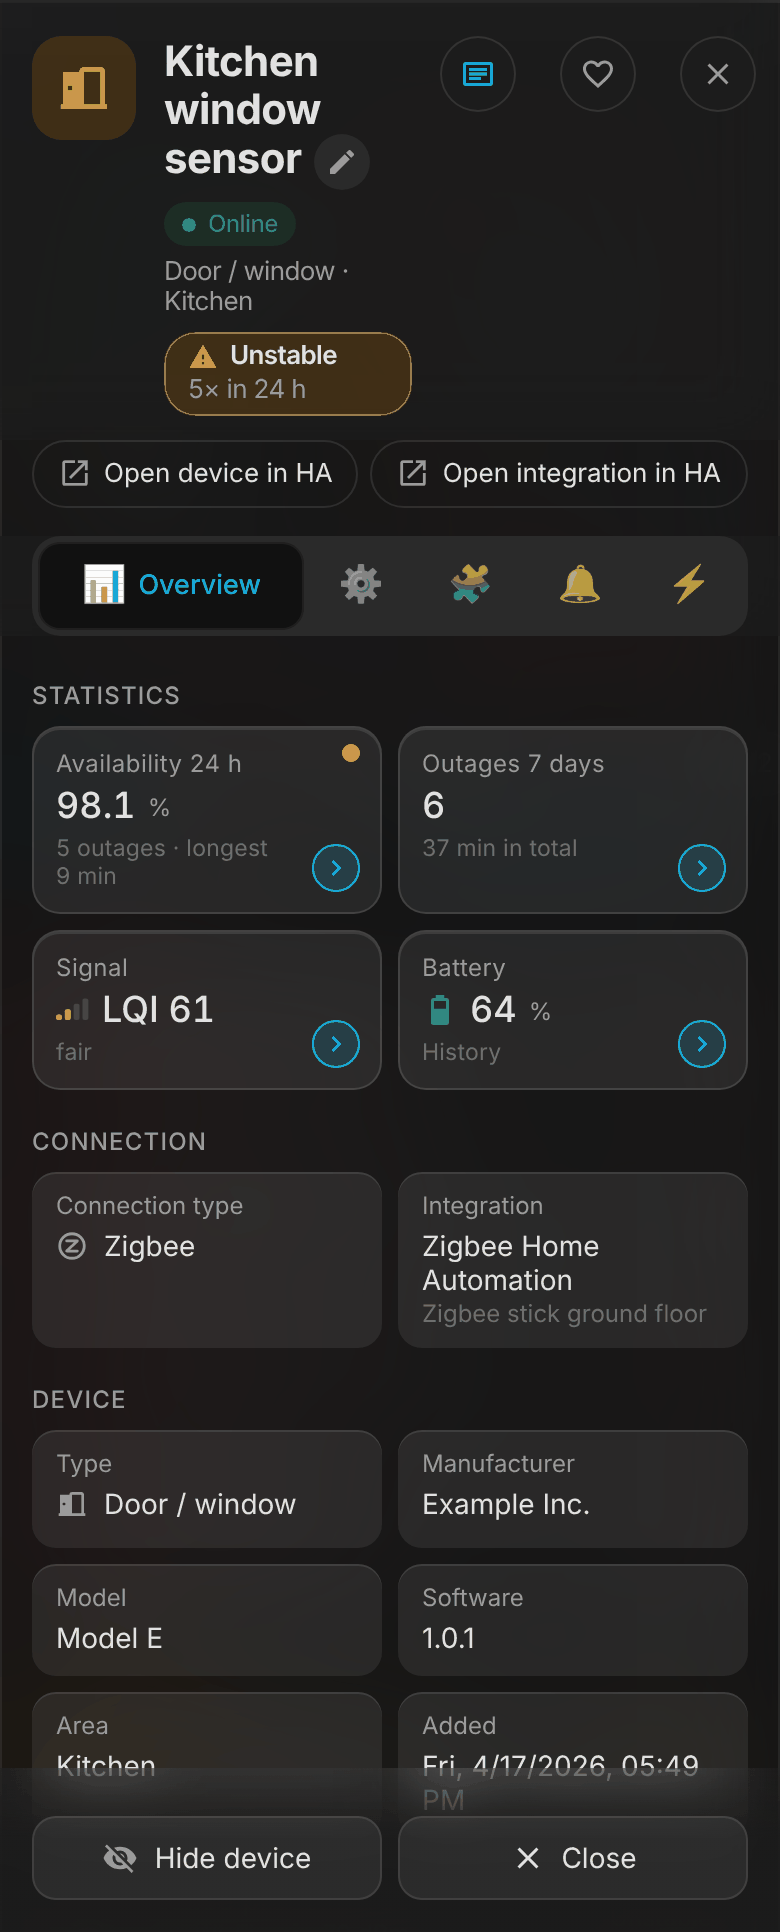
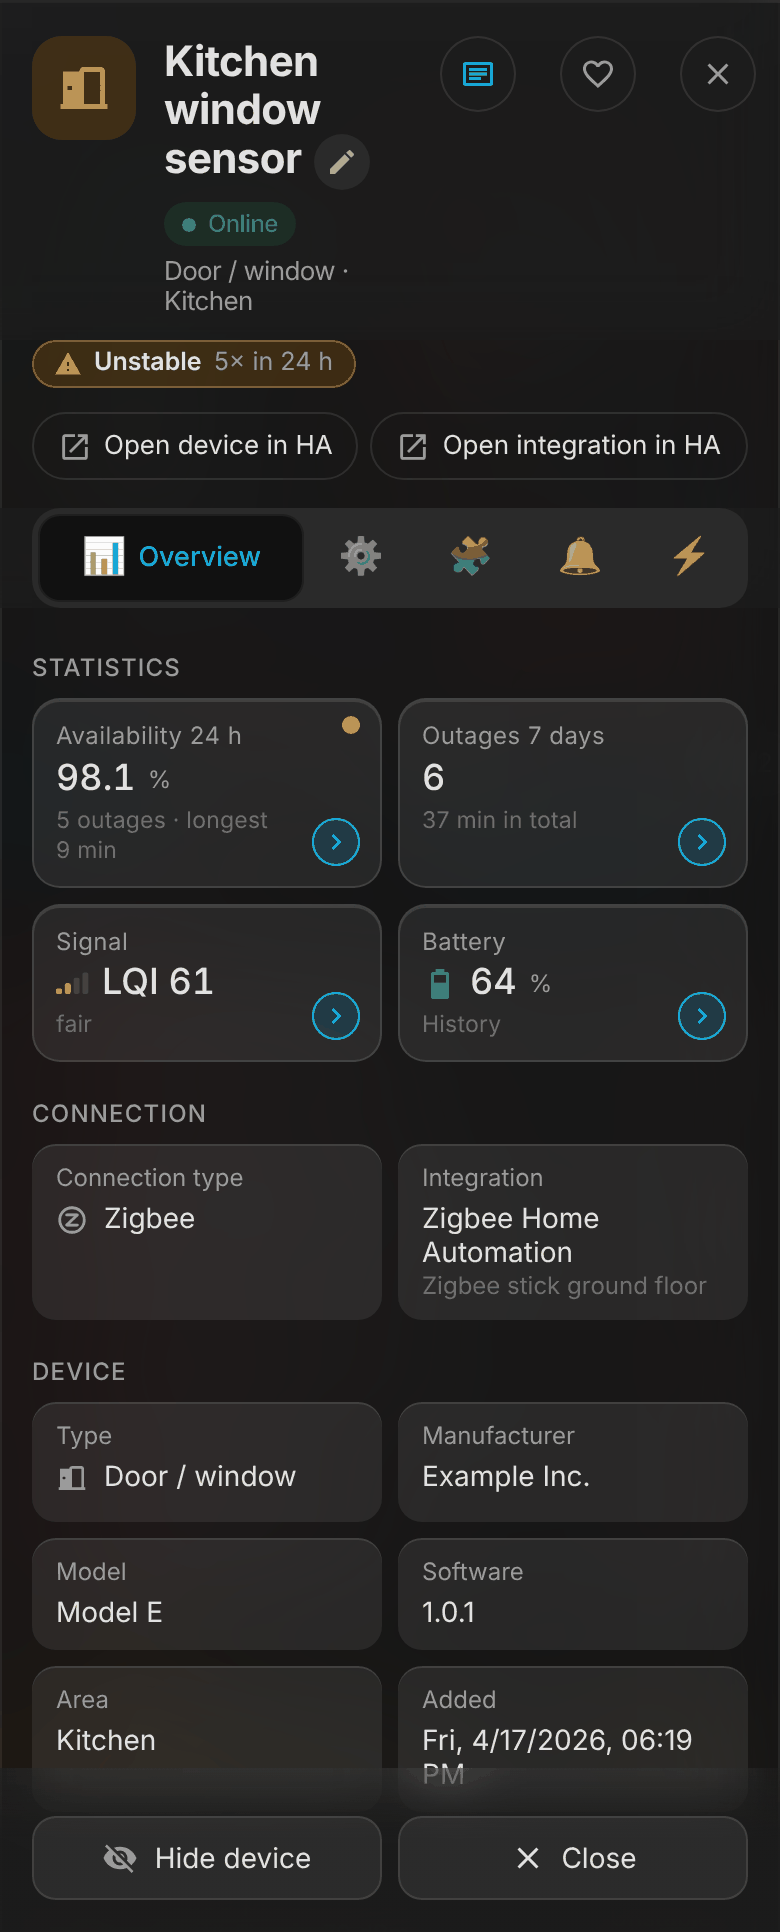
2.188.1: Warnmarke klein unter dem Popup-Kopf, README-Abschnitt "Updates" nachgeführt
- Die Warnmarke (Instabil, Empfang, Batterie) steht unter dem Kopf über die ganze
  Breite, klein und in einer Zeile, statt als aufgeblähte Kapsel in der schmalen Spalte
- README (DE/EN): Abschnitt "Updates" beschreibt die ganze neue App; Update-Erinnerung
  für jede Art; Popup-Bilder neu
- Tests (warnwhy), CHANGELOG (DE/EN), HANDOVER, PANEL_VERSION 430

Claude-Session: https://claude.ai/code/session_01U1q7hu4Br2u4E6fFdEJMgU

diff --git a/custom_components/device_panel/panel/styles.js b/custom_components/device_panel/panel/styles.js
@@ -1261,9 +1261,11 @@ button.ver-link { border: none; background: none; font: inherit; font-size: 13px
 .st-tile.static { cursor: default; }
 /* Grund der Warnung (seit 1.27.0): Marken im Kopf, gelber Rahmen und Punkt an der Kachel */
 .why-tags { display: flex; flex-wrap: wrap; gap: 6px; margin-top: 8px; }
-.why { display: inline-flex; flex-wrap: wrap; align-items: center; gap: 0 6px; min-height: 28px; padding: 3px 11px; border-radius: 16px; font-size: 13px; line-height: 1.3; max-width: 100%;
+/* Unter dem Kopf über die ganze Breite (seit 2.188.1): in der schmalen Spalte neben dem Namen und den Knöpfen brach die Marke zu einer hohen Kapsel um */
+.why-tags.dlg-why { margin: 0; padding: 0 22px 12px; }
+.why { display: inline-flex; flex-wrap: wrap; align-items: center; gap: 0 6px; min-height: 24px; padding: 2px 10px; border-radius: 14px; font-size: 12.5px; line-height: 1.3; max-width: 100%;
   border: 1px solid color-mix(in srgb, var(--dp-warning) 45%, transparent); background: var(--dp-warning-soft); }
-.why svg { color: var(--dp-warning); flex: none; }
+.why svg { color: var(--dp-warning); flex: none; width: 14px; height: 14px; }
 .why b { font-weight: 600; }
 /* Der Wert steht hinter dem Namen und bricht als Ganzes in die nächste Zeile, wenn die Spalte schmal ist (Handy: Name und drei Knöpfe daneben) */
 .why .wv { color: var(--dp-text2); white-space: nowrap; }
@@ -1582,6 +1584,7 @@ button.pill.live.off:hover { background: var(--dp-hover); }
   dialog.settings .dlg-head .dlg-close, dialog.log-dlg .dlg-head .dlg-close, dialog.rtall-dlg .dlg-head .dlg-close, dialog.mgall-dlg .dlg-head .dlg-close, dialog.status-dlg .dlg-head .dlg-close,
   dialog.settings .dlg-head .dlg-acts, dialog.rtall-dlg .dlg-head .dlg-acts, dialog.mgall-dlg .dlg-head .dlg-acts { margin-top: -6px; }
   .dlg-quick { padding: 0 16px 14px; flex-wrap: nowrap; gap: 6px; }
+  .why-tags.dlg-why { padding: 0 16px 12px; }
   /* Handy: beide Knöpfe (Gerät, Integration) auf einer Zeile; bei sehr schmalem Fenster kürzt "…" den Text */
   .qbtn { padding: 0 12px; gap: 6px; min-width: 0; white-space: nowrap; }
   .qbtn .q-t { overflow: hidden; text-overflow: ellipsis; }

diff --git a/custom_components/device_panel/panel/device-panel.js b/custom_components/device_panel/panel/device-panel.js
@@ -5388,7 +5388,7 @@ class DevicePanel extends HTMLElement {
         if (d.battery?.low) why.push([this._t("warnBatteryLow"), d.battery.level != null ? `${d.battery.level} %` : ""]);
       }
       const whyHtml = why.length
-        ? `<div class="why-tags">${why.map(([k, v]) => `<span class="why">${mdi("alert", 15)}<b>${escape(k)}</b>${v ? ` <span class="wv">${escape(v)}</span>` : ""}</span>`).join("")}</div>`
+        ? `<div class="why-tags dlg-why">${why.map(([k, v]) => `<span class="why">${mdi("alert", 14)}<b>${escape(k)}</b>${v ? ` <span class="wv">${escape(v)}</span>` : ""}</span>`).join("")}</div>`
         : "";
       const ents = this._entitiesHtml(d);
       // Reiter (seit 1.37.0, docs/mockups/popup-tabs-log-v1, R3): Übersicht zum Lesen, alle Einstellungen des Geräts
@@ -5433,8 +5433,8 @@ class DevicePanel extends HTMLElement {
           <h3>${escape(this._t("secDevice"))}</h3>${this._deviceSectionHtml(d)}`;
       html = `<div class="dlg-head"><span class="dlg-avatar ${avatar}">${typeIcon(d.type, 28)}</span>
           <div class="dlg-title">${this._nameHtml(d)}
-            <div class="dlg-sub">${status}<span>${[this._t(typeKey(d.type)), d.area].filter(Boolean).map(escape).join(" · ")}</span></div>${whyHtml}</div>
-          ${logBtn}${heart}${close}</div>
+            <div class="dlg-sub">${status}<span>${[this._t(typeKey(d.type)), d.area].filter(Boolean).map(escape).join(" · ")}</span></div></div>
+          ${logBtn}${heart}${close}</div>${whyHtml}
         <div class="dlg-quick"><button type="button" class="qbtn" data-dlg="open-device">${mdi("open", 17)}<span class="q-t">${escape(this._t("openDevicePage"))}</span></button>${d.integration?.domain ? `<button type="button" class="qbtn" data-dlg="open-integration" data-domain="${escape(d.integration.domain)}">${mdi("open", 17)}<span class="q-t">${escape(this._t("openIntegPage"))}</span></button>` : ""}</div>
         <div class="dev-tabs">${tabs}</div>
         <div class="dlg-body" role="tabpanel">${body}

diff --git a/custom_components/device_panel/const.py b/custom_components/device_panel/const.py
@@ -13,7 +13,7 @@ PANEL_HTML_FILE = "panel.html"
 STATIC_URL_PATH = f"/{DOMAIN}"
 PANEL_STATIC_URL_PATH = f"{STATIC_URL_PATH}/panel"
 # Cache-Buster: bei jeder Änderung unter panel/ von Hand erhöhen.
-PANEL_VERSION = "429"
+PANEL_VERSION = "430"
 PANEL_PAGE_URL = f"{PANEL_STATIC_URL_PATH}/{PANEL_HTML_FILE}?v={PANEL_VERSION}"
 
 # Mitgeliefertes Bild für Push-Meldungen (Companion-App, "icon_url"), wie in

diff --git a/README.de.md b/README.de.md
@@ -188,7 +188,7 @@ Jede Art hat in den Einstellungen einen eigenen Reiter. Ausfall, Batterie, Laden
 - **Laden:** Push, wenn ein Gerät voll geladen ist ("Voll ab", Standard 100 %) oder die Ladung vorzeitig endet, standardmässig aus und nur für wiederaufladbare Geräte; Geräte, die gerade laden, bekommen den Chip "Lädt" mit grüner Markierung und Ladebalken
 - **Live-Aktivität:** auf Wunsch der Ladefortschritt auf dem Sperrbildschirm (iPhone, Live-Aktivität) oder als Live-Update (Android 16), mit leisen Aktualisierungen und, sobald sie verlässlich ist, einer Schätzung, wann das Ziel erreicht ist ("fertig gegen 14:35"), standardmässig aus
 - **Neue Geräte:** ein Sammelfenster, dann eine Meldung mit allen neu erschienenen Geräten; das Gerät trägt drei Tage die Markierung "Neu"
-- **Update-Erinnerung:** täglich, wöchentlich oder sofort für Updates von Home Assistant, Add-ons, HACS / Marketplace und Geräte-Firmware, einstellbar pro App, pro Integration und pro Firmware, auf Wunsch wiederholt, solange ein Update offen bleibt; ersetzt zwei selbstgebaute Automationen
+- **Update-Erinnerung:** täglich, wöchentlich oder sofort für Updates von Home Assistant, Add-ons, HACS / Marketplace und Geräte-Firmware (standardmässig jede Art), einstellbar pro App, pro Integration und pro Firmware, auf Wunsch wiederholt, solange ein Update offen bleibt; ersetzt zwei selbstgebaute Automationen
 - **Empfang:** eine Warnschwelle pro Verbindungsart, pro Integration und pro Gerät (Standard schwach unter -80 dBm oder LQI 61), auch abschaltbar
 - **Panel-Updates:** ein optionaler Push einmal pro Version, wenn eine neue Version des Panels gefunden oder installiert wird
 
@@ -266,7 +266,14 @@ Schaltet eine Entität eines Geräts einmalig oder nach Zeitplan, ohne Automatio
 
 ## Updates
 
-Die App "Updates" (Administratoren) listet jedes offene Update, das Home Assistant kennt, in einem Fenster: Geräte, Apps, HACS / Marketplace, Home Assistant Core, Betriebssystem und Supervisor. Chips nach Art und nach Integration wählen vor, Häkchen verfeinern, ein Knopf startet die Auswahl nach einer Bestätigung (auf Wunsch mit vorheriger Sicherung). Die Integration arbeitet die Auswahl in einer Warteschlange ab, sie läuft also auch bei geschlossenem Fenster weiter. Updates, die Home Assistant oder den Rechner neu starten (Core, Betriebssystem), sind nie vorgewählt, laufen zuletzt und allein, und nur eines davon je Start.
+Die App "Updates" (Administratoren) listet jedes offene Update, das Home Assistant kennt, in einem Fenster und startet sie von dort.
+
+- **Was sie listet:** Geräte (Firmware), Apps (Add-ons), HACS / Marketplace, Home Assistant Core, Betriebssystem und Supervisor. Eine Zeile ohne Gerät (App, HACS, Home Assistant) öffnet den Dialog von Home Assistant mit den Release Notes.
+- **Wählen:** Chips nach Art (Home Assistant, Apps, HACS) und nach Integration der Geräte wählen vor, Häkchen verfeinern, ein Knopf startet die Auswahl nach einer Bestätigung, auf Wunsch mit vorheriger Sicherung, wo das Update sie kann.
+- **Warteschlange:** Die Integration arbeitet die Auswahl in einer Warteschlange ab, sie läuft also auch bei geschlossenem Fenster weiter: höchstens drei Updates gleichzeitig und eines je Integration.
+- **Neustarts:** Updates, die Home Assistant oder den Rechner neu starten (Core, Betriebssystem), sind nie vorgewählt, laufen zuletzt und allein, und nur eines davon je Start. Die Rückfrage sagt es; die Anzeige endet mit dem Neustart.
+- **Ausfall-Meldungen:** Während eines Geräte-Updates hält das Panel die Ausfall-Meldungen dieses Geräts zurück, während eines App-Updates die aller Geräte (Geräte können an der App hängen), dazu 5 Minuten danach.
+- **Launcher und Erinnerung:** Das Symbol im Launcher wackelt und zeigt die Zahl der offenen Updates. Die Update-Erinnerung (Einstellungen › Überwachung und Meldungen › Updates) gilt standardmässig für jede Art und öffnet bei einem Tipp diese App.
 
 <p align="center"><img src="https://raw.githubusercontent.com/Diegofuego871/ha-device-panel/main/docs/screenshots/de/updates.png" alt="Fenster Updates mit Chips nach Art und Integration und einer Auswahl" width="480"></p>
 

diff --git a/README.md b/README.md
@@ -188,7 +188,7 @@ Each kind has its own tab in the settings. Outage, battery, charging, new device
 - **Charging:** push when a device is fully charged ("Full from", default 100 %) or the charge stops early, off by default and only for rechargeable devices; devices that charge right now get the chip "Charging" with a green mark and a charge bar
 - **Live activity:** optionally the charge progress on the lock screen (iPhone, live activity) or as a live update (Android 16), with quiet updates and, once it is reliable, an estimate of when the target is reached ("done around 14:35"), off by default
 - **New devices:** a collecting window, then one message with all devices that appeared; the device carries a "New" mark for three days
-- **Update reminder:** daily, weekly or immediately for updates of Home Assistant, add-ons, HACS / Marketplace and device firmware, adjustable per app, per integration and per firmware, optionally repeated while an update stays open; replaces two hand-made automations
+- **Update reminder:** daily, weekly or immediately for updates of Home Assistant, add-ons, HACS / Marketplace and device firmware (every kind by default), adjustable per app, per integration and per firmware, optionally repeated while an update stays open; replaces two hand-made automations
 - **Signal:** a warning threshold per connection type, per integration and per device (default weak below -80 dBm or LQI 61), also switchable off
 - **Panel updates:** an optional push once per version when a new version of the panel is found or installed
 
@@ -266,7 +266,14 @@ Switches an entity of a device once or on a schedule, without an automation.
 
 ## Updates
 
-The app "Updates" (administrators) lists every open update Home Assistant knows in one window: devices, apps, HACS / Marketplace, Home Assistant Core, operating system and Supervisor. Chips by kind and by integration preselect, checkboxes refine, one button starts the selection after a confirmation (optionally with a backup first). The integration works the selection off in a queue, so it keeps running with the window closed. Updates that restart Home Assistant or the machine (Core, operating system) are never preselected, run last and alone, and only one of them per start.
+The app "Updates" (administrators) lists every open update Home Assistant knows in one window and starts them from there.
+
+- **What it lists:** devices (firmware), apps (add-ons), HACS / Marketplace, Home Assistant Core, operating system and Supervisor. A row without a device (app, HACS, Home Assistant) opens the dialog of Home Assistant with the release notes.
+- **Choose:** chips by kind (Home Assistant, Apps, HACS) and by integration of the devices preselect, checkboxes refine, one button starts the selection after a confirmation, optionally with a backup first where the update supports it.
+- **Queue:** the integration works the selection off in a queue, so it keeps running with the window closed: at most three updates at a time and one per integration.
+- **Restarts:** updates that restart Home Assistant or the machine (Core, operating system) are never preselected, run last and alone, and only one of them per start. The confirmation says so; the view ends with the restart.
+- **Outage messages:** during a device update the panel holds back that device's outage messages, during an app update those of all devices (devices may depend on the app), plus 5 minutes after it.
+- **Launcher and reminder:** the icon in the launcher shakes and shows the number of open updates. The update reminder (Settings › Monitoring and notifications › Updates) covers every kind by default and opens this app when you tap it.
 
 <p align="center"><img src="https://raw.githubusercontent.com/Diegofuego871/ha-device-panel/main/docs/screenshots/en/updates.png" alt="Window Updates with chips by kind and integration and a selection" width="480"></p>
 

diff --git a/CHANGELOG.de.md b/CHANGELOG.de.md
@@ -13,9 +13,9 @@ Das Geräte-Popup sieht auf einem schmalen Handy richtig aus, und die README-Bil
 
 ### Behoben
 
-- **Popup, Kopf auf dem Handy:** Die Warnmarke ("Instabil 5× in 24 Std.", "Empfang schwach", "Batterie niedrig") stand in der schmalen Spalte neben dem Namen und den drei Knöpfen und brach zu einer hohen, schmalen Kapsel um. Sie bricht jetzt als Ganzes um: der Name der Warnung in der ersten Zeile, der Wert darunter in gedämpfter Farbe (der Punkt dazwischen entfällt), in einem Kasten mit runden Ecken statt einer vollen Kapsel.
+- **Popup, Kopf auf dem Handy:** Die Warnmarke ("Instabil 5× in 24 Std.", "Empfang schwach", "Batterie niedrig") stand in der schmalen Spalte neben dem Namen und den drei Knöpfen und brach zu einer hohen, aufgeblähten Kapsel um. Sie steht jetzt unter dem Kopf über die ganze Breite, klein und in einer Zeile, mit dem Wert in gedämpfter Farbe (der Punkt dazwischen entfällt).
 - **Popup, Kacheln der Statistik mit Pfeil:** Die Zeile unter dem Wert (zum Beispiel "5 Unterbrüche · längster 9 Min.") läuft nicht mehr unter den Pfeil unten rechts, sondern bricht in die nächste Zeile um.
-- **README:** Die Bilder des Popups (Desktop und Handy, Deutsch und Englisch) sind neu. Das Handybild entsteht in einem höheren Fenster, die ganze Übersicht liegt also über der festen Leiste "Gerät ausblenden / Schliessen", und kein Abschnitt wirkt abgeschnitten.
+- **README:** Der Abschnitt "Updates" beschreibt jetzt die ganze neue App, und die Bilder des Popups (Desktop und Handy, Deutsch und Englisch) sind neu. Das Handybild entsteht in einem höheren Fenster, die ganze Übersicht liegt also über der festen Leiste "Gerät ausblenden / Schliessen", und kein Abschnitt wirkt abgeschnitten.
 
 ## [2.188.0] - 2026-11-03
 

diff --git a/CHANGELOG.md b/CHANGELOG.md
@@ -13,9 +13,9 @@ The device pop-up looks right on a narrow phone, and the README pop-up images ar
 
 ### Fixed
 
-- **Pop-up, header on a phone:** the warning tag ("Unstable 5× in 24 h", "Weak signal", "Battery low") sat in the narrow column next to the name and the three buttons and broke into a tall, narrow capsule. It now breaks as a whole: the label on the first line, its value below in a muted color (the dot between them is gone), in a rounded box instead of a full capsule.
+- **Pop-up, header on a phone:** the warning tag ("Unstable 5× in 24 h", "Weak signal", "Battery low") sat in the narrow column next to the name and the three buttons and broke into a tall, bloated capsule. It now sits below the header across the full width, small and in one line, with the value in a muted color (the dot between them is gone).
 - **Pop-up, statistics tiles with an arrow:** the line under the value (for example "5 outages · longest 9 min") no longer runs under the arrow at the bottom right; it breaks to the next line instead.
-- **README:** the pop-up images (desktop and phone, German and English) are renewed. The phone image is taken in a taller window, so the whole overview sits above the fixed bar "Hide device / Close" and no section looks cut off.
+- **README:** the section "Updates" now describes the whole new app, and the pop-up images (desktop and phone, German and English) are renewed. The phone image is taken in a taller window, so the whole overview sits above the fixed bar "Hide device / Close" and no section looks cut off.
 
 ## [2.188.0] - 2026-11-03
 

diff --git a/docs/HANDOVER.md b/docs/HANDOVER.md
@@ -5,7 +5,7 @@ Einstieg für jede neue Claude-Code-Session. Zuerst diese Datei lesen, dann
 
 ## Stand (2.188.1, Popup auf dem Handy)
 
-- Die Warnmarken im Popup-Kopf (`.why`, Wert in `<span class="wv">`, ohne Punkt) umbrechen als Ganzes und bleiben in der Spalte; Kacheln mit Pfeil (`.st-tile:has(> .chev) .st-sub`) lassen Platz für den Pfeil. Test: Suite `warnwhy`. README-Bilder `popup.png` und `popup-mobile.png` neu (`readme-shots.mjs`: für das Handybild ein Fenster mit 1070 px Höhe, damit keine Abschnitte hinter der festen Leiste verschwinden).
+- Die Warnmarken (`.why-tags.dlg-why`, Wert in `<span class="wv">`, ohne Punkt) stehen unter dem Popup-Kopf über die ganze Breite, klein und in einer Zeile (nicht mehr in der schmalen Spalte neben dem Namen); Kacheln mit Pfeil (`.st-tile:has(> .chev) .st-sub`) lassen Platz für den Pfeil. Test: Suite `warnwhy`. README-Bilder `popup.png` und `popup-mobile.png` neu (`readme-shots.mjs`: für das Handybild ein Fenster mit 1070 px Höhe, damit keine Abschnitte hinter der festen Leiste verschwinden).
 
 ## Stand (2.188.0, App "Updates" für alle Updates)
 
